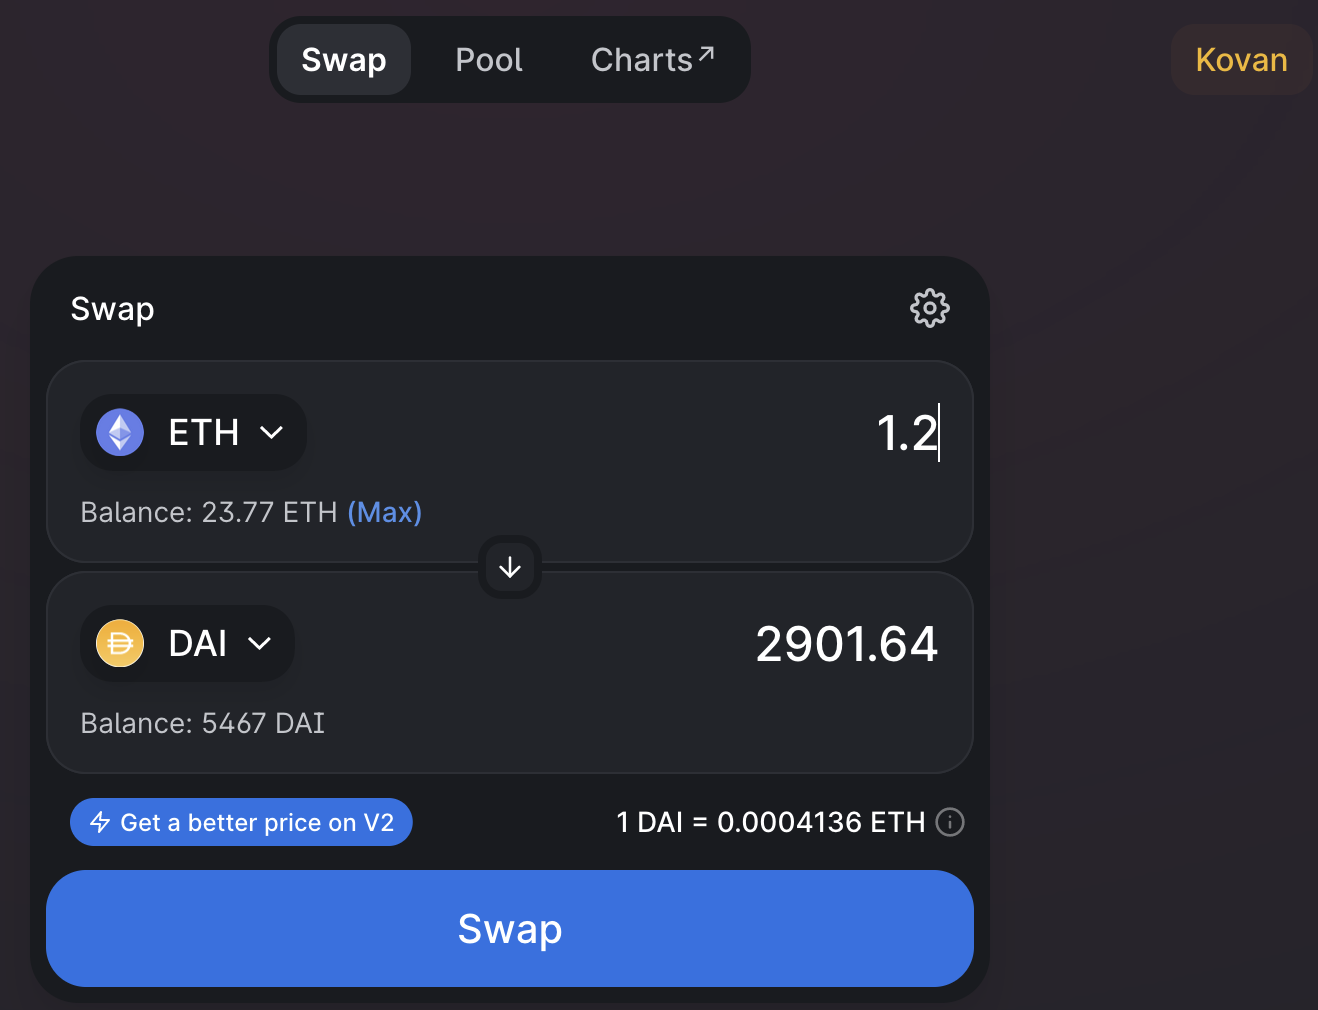
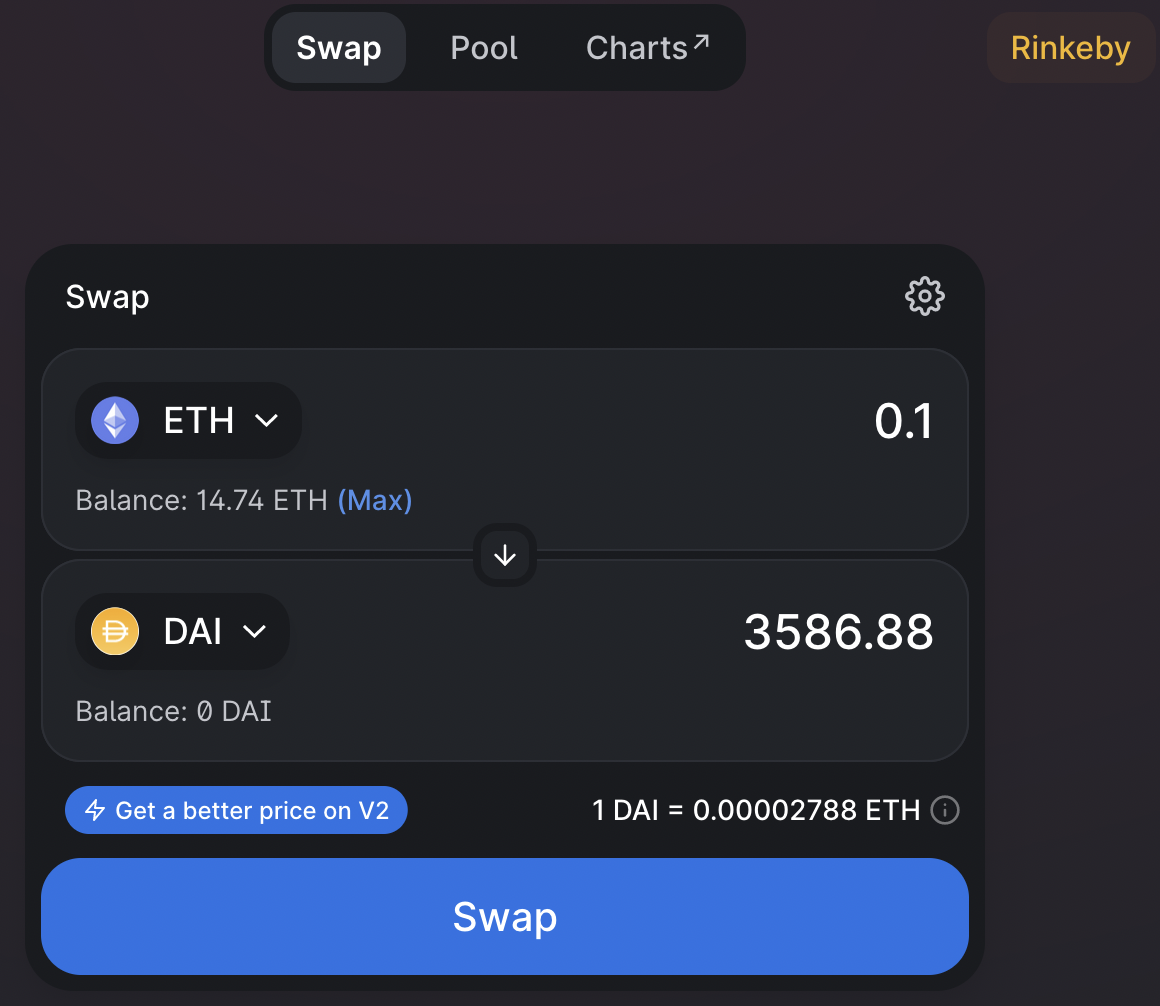
use rinkeby in warm up instead for better faucet

diff --git a/warmup.md b/warmup.md
@@ -8,7 +8,7 @@ First, set up your [MetaMask wallet](https://metamask.io/index.html). For more i
 
 Explore inside the intuitive MetaMask wallet, and try to accomplish the following by clicking around:
 
-- Switch to a different network (e.g. switch to Kovan testnet).
+- Switch to a different network (e.g. switch to Rinkeby testnet).
 - Create a new account.
 - Change your account name/alias from "Account X" to something you prefer.
 - Copy paste your public address (e.g. `0x5238...a1CD`).
@@ -21,7 +21,7 @@ Now you are ready to try out the following:
 - [Exploring blockchain explorer: etherscan](#blockchain-explorer-etherscan)
 - [Play with ERC20 tokens](#play-with-erc20-tokens)
 - [Play with ERC721 tokens](#play-with-erc721-tokens)
-- [setup alchemy account](#setup-alchemy)
+- [Setup alchemy account](#setup-alchemy)
 
 ## Sending and receiving ethers
 
@@ -38,7 +38,7 @@ Testnets are identical to mainnet except that:
 - testnets are meant for testing in a simulated, (almost) identical environment as mainnet before developers ship products to live mainnet -- "almost" especially referring to the lack of cryptoeconomic environment (e.g. it's hard to validate staking-based attack vectors or the lack thereof in testnets).
 
 Now switch to a testnet, and web search "xxx testnet faucet" which is the "cash printer" for anyone who wants free "fake ethers".
-In the case of Kovan testnet, enter your receiver address to [this faucet](https://ethdrop.dev/) or [this gitter chatroom](https://gitter.im/kovan-testnet/faucet).
+In the case of Rinkeby testnet, enter your receiver address to [this faucet](https://faucet.rinkeby.io/).
 Please note that all testnets typically implement rate limiting (at most request X test ether in Y hours) to prevent DoS attack.
 
 While you are waiting for the faucet(s) to grant you test ethers, here's a fun question to ponder on: "What are the rare cases where you create a new account to find positive balance?":
@@ -69,7 +69,7 @@ Click on any transaction you've sent and take a look at its details. Here are a 
 
 Go to the most popular block explorer [etherscan.io](https://etherscan.io/), and try out the following:
 
-- Find your address (if you find there's no activity there, it's because you're viewing your address on live mainnet, try switch to [Kovan Explorer](https://kovan.etherscan.io/)) and click into some transactions your accounts are involved with and read their details.
+- Find your address (if you find there's no activity there, it's because you're viewing your address on live mainnet, try switch to [Rinkeby Explorer](https://rinkeby.etherscan.io/)) and click into some transactions your accounts are involved with and read their details.
 - Search `vitalik.eth` on mainnet, see how much ethers is in one of Vitalik's many accounts.
   - `.eth` is [Ethereum Name Service](https://ens.domains/) (ENS) domain registry similar to our ".com" or ".sg" in web2 world.
   - take a look at Vitalik's token possession (both ERC20 and ERC721).
@@ -83,7 +83,7 @@ Go to the most popular block explorer [etherscan.io](https://etherscan.io/), and
 
 ## Play with ERC20 tokens
 
-Assume that you have some Kovan test ETH in your wallet. Head to [Uniswap](https://app.uniswap.org/#/swap) and swap your ETH with some other ERC20 tokens
+Assume that you have some Rinkeby test ETH in your wallet. Head to [Uniswap](https://app.uniswap.org/#/swap) and swap your ETH with some other ERC20 tokens
 such as [DAI](https://coinmarketcap.com/currencies/multi-collateral-dai/) (algorithmic stable coin), [UNI](https://uniswap.org/blog/uni/) (Uniswap protocol token),
 [USDC](https://www.centre.io/usdc) (custodian, reserve backed stable coin) etc.
 
@@ -110,7 +110,7 @@ available nodes with a rich set of APIs for your applications to interact with t
 You can [register here](https://auth.alchemyapi.io/signup), and go through their ['getting started'](https://docs.alchemy.com/alchemy/introduction/getting-started) doc here.
 
 Give your project whatever name you prefer, and try to compartmentalize your backend traffic analytic from that of the front-end by creating separate projects --
-for now, let's just create one to experiment with, "Environment" set to "Development", "Network" selected as "Kovan" (you can switch to others later).
+for now, let's just create one to experiment with, "Environment" set to "Development", "Network" selected as "Rinkeby" (you can switch to others later).
 
 Once you have logged in, you should be able to see your dashboard and a task of "Make your first request". We encourage you to view the list of supported methods and
 make requests from your command line as instructed.
@@ -121,6 +121,6 @@ In case if you are an automation maximalist, and prefer running a script over ma
 
 - Rename `.env.example` file to `.env`in our project root (don't worry, it's git ignored)
 - Copy paste your own HTTP integration API key into the `.env` file
-- Run [`./scripts/alchemy-requests-example.sh` scripts](./scripts/alchemy-requests-example.sh)
+- Run [`./scripts/alchemy-requests-example.sh -n rinkeby`](./scripts/alchemy-requests-example.sh) in your command line
 
 We further note that there are alternatives like [Infura](https://infura.io/) that offers similar services, you can use either for your own projects, but we use Alchemy as the default provider in our workshop.
